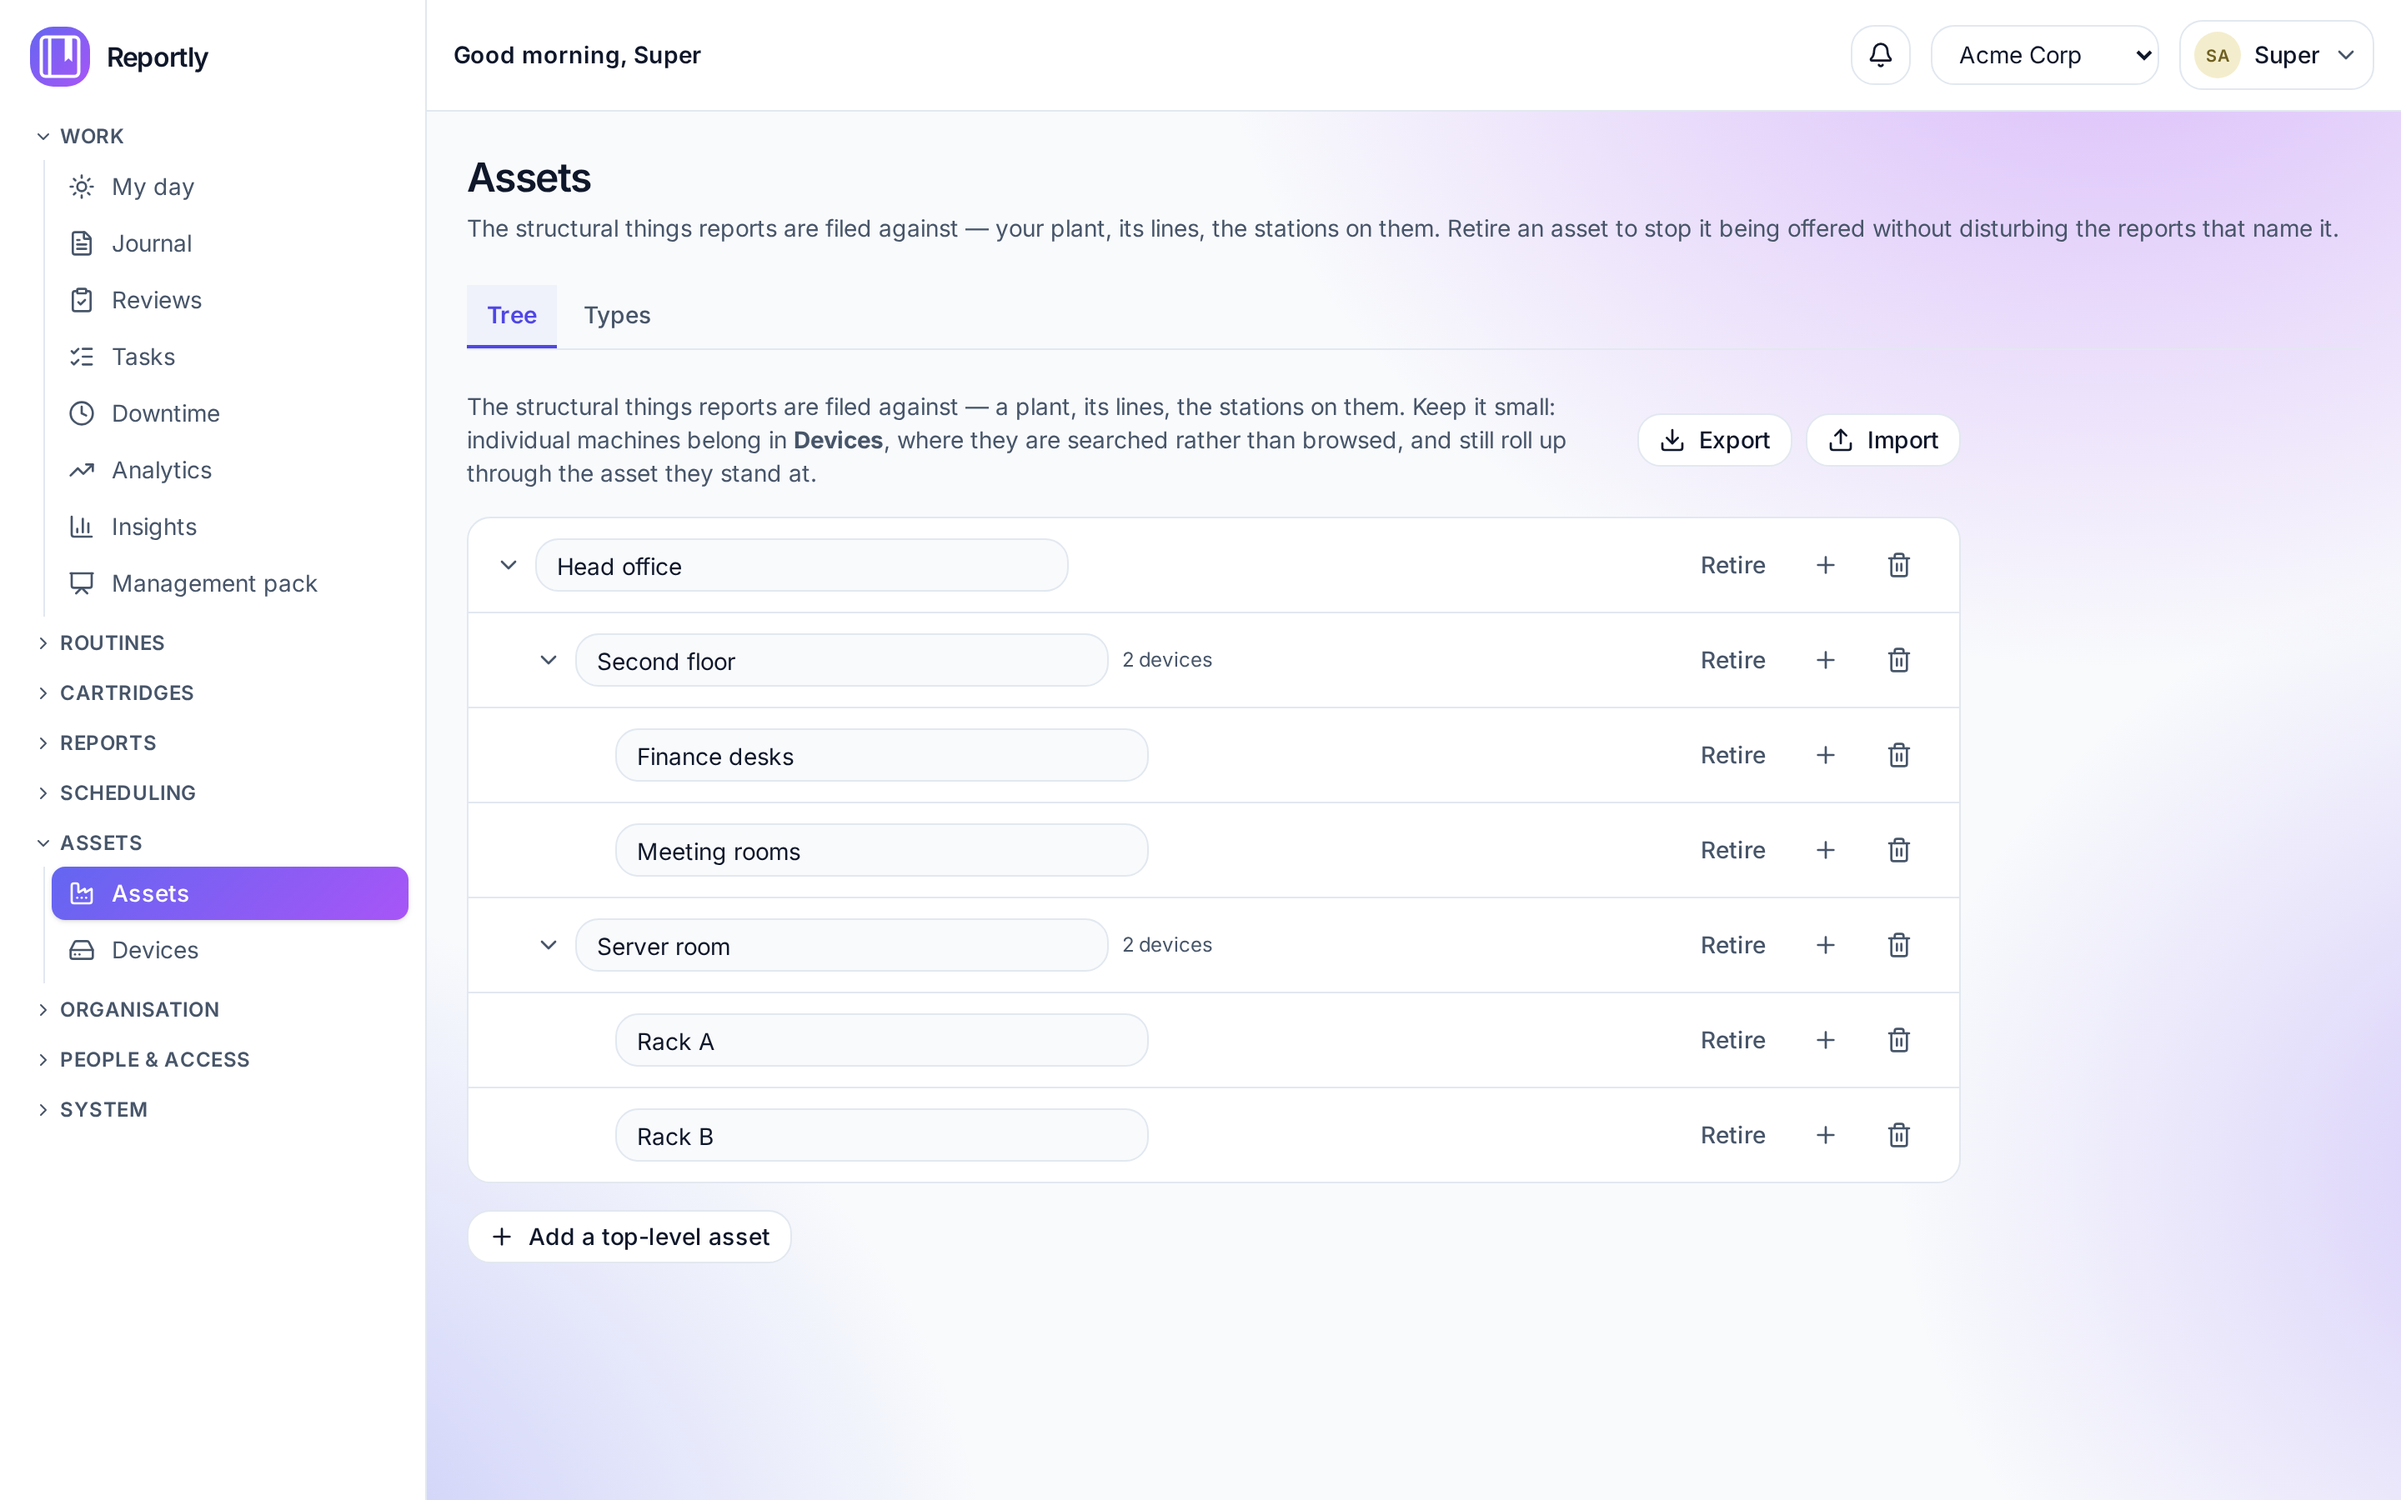
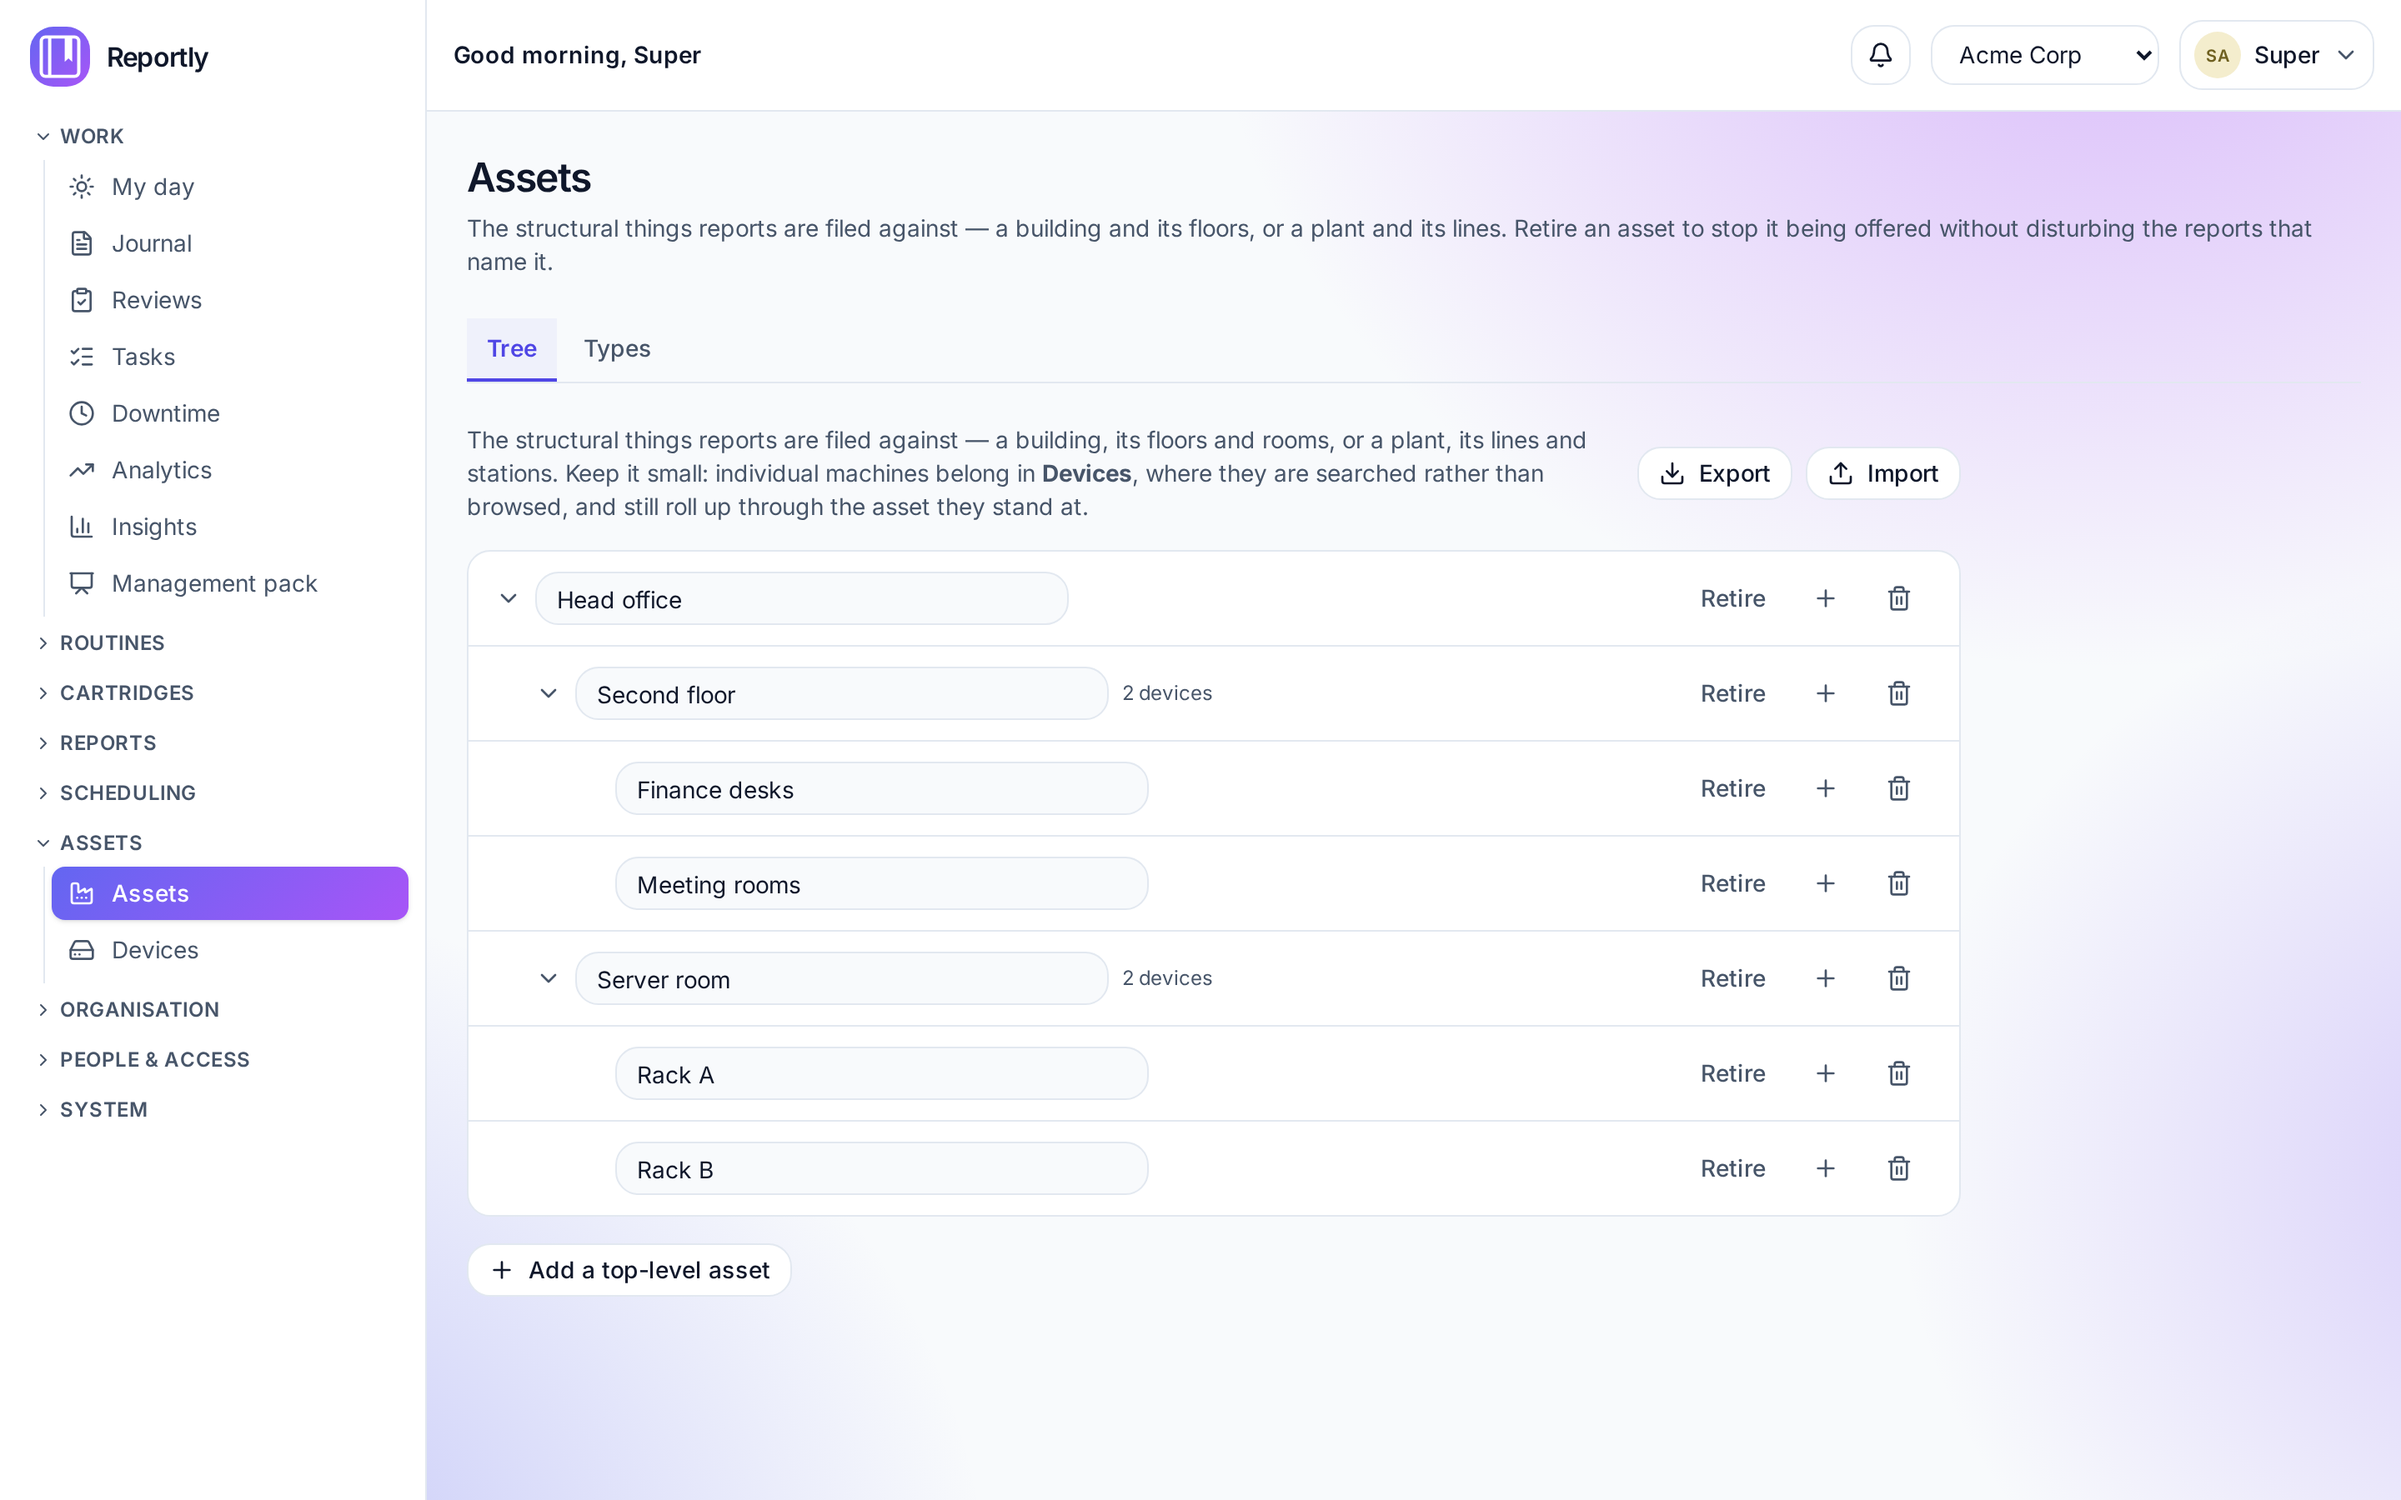
fix(web): stop the asset screens assuming a factory
The asset pages described "your plant, its lines, the stations on them" and
the cascading picker was labelled "Site or plant" — words an IT department
had to translate. The text now offers a building and its floors alongside a
plant and its lines, and the picker reads "Building or plant". The e2e spec
that selects by that label follows it, and the three affected screenshots
are regenerated.

diff --git a/apps/web/src/routes/assets/asset-tree-tab.tsx b/apps/web/src/routes/assets/asset-tree-tab.tsx
@@ -87,9 +87,10 @@ export function AssetTreeTab({ canManage }: { canManage: boolean }) {
     <div className="flex max-w-4xl flex-col gap-4">
       <div className="flex flex-wrap items-center justify-between gap-2">
         <p className="max-w-2xl text-sm text-muted-foreground">
-          The structural things reports are filed against — a plant, its lines, the stations on
-          them. Keep it small: individual machines belong in <strong>Devices</strong>, where they
-          are searched rather than browsed, and still roll up through the asset they stand at.
+          The structural things reports are filed against — a building, its floors and rooms, or a
+          plant, its lines and stations. Keep it small: individual machines belong in{" "}
+          <strong>Devices</strong>, where they are searched rather than browsed, and still roll up
+          through the asset they stand at.
         </p>
         <div className="flex shrink-0 items-center gap-2">
           <Button size="sm" variant="secondary" onClick={() => void exportAssets()}>
@@ -108,7 +109,7 @@ export function AssetTreeTab({ canManage }: { canManage: boolean }) {
       <Card className="divide-y divide-border">
         {tree.length === 0 ? (
           <p className="px-4 py-6 text-center text-sm text-muted-foreground">
-            Nothing here yet. Add your plant, then the lines under it.
+            Nothing here yet. Add a building or a plant, then what sits inside it.
           </p>
         ) : (
           tree.map((node) => (

diff --git a/e2e/tests/reporting.spec.ts b/e2e/tests/reporting.spec.ts
@@ -81,10 +81,10 @@ async function addAsset(page: Page, name: string): Promise<void> {
  *
  * It replaced a single combobox of every asset: you walk down — site, then line,
  * then station — and stop wherever you like, so there is no `option` to click by
- * name. The first level is "Site or plant"; "Use this"/"Add" commits the choice.
+ * name. The first level is "Building or plant"; "Use this"/"Add" commits the choice.
  */
 async function pickAsset(page: Page, name: string): Promise<void> {
-  await page.getByLabel("Site or plant").selectOption({ label: name });
+  await page.getByLabel("Building or plant").selectOption({ label: name });
   await page.getByRole("button", { name: /^(Add|Use this)$/ }).click();
   // The chip's own Remove button, not the name as text. `getByText(name)` also
   // matches the `<option>` still sitting in the picker, which Playwright reports

diff --git a/e2e/tests/helpers.ts b/e2e/tests/helpers.ts
@@ -335,7 +335,7 @@ export async function submitIssue(page: Page): Promise<void> {
   // "Choose one" placeholder — whatever this installation has called its plants.
   //
   // By its `name`, not its label. "Site" is ambiguous on this form — the scope picker
-  // below is "Site or plant" — and a required field's label carries a marker, so an
+  // below is "Building or plant" — and a required field's label carries a marker, so an
   // exact match on the word finds nothing either. The name is what the form posts
   // under and does not move.
   await page.locator('select[name="locationId"]').selectOption({ index: 1 });

diff --git a/apps/web/src/routes/assets/assets-page.tsx b/apps/web/src/routes/assets/assets-page.tsx
@@ -27,7 +27,7 @@ export function AssetsPage({ tab }: { tab: string }) {
     <>
       <PageHeader
         title="Assets"
-        description="The structural things reports are filed against — your plant, its lines, the stations on them. Retire an asset to stop it being offered without disturbing the reports that name it."
+        description="The structural things reports are filed against — a building and its floors, or a plant and its lines. Retire an asset to stop it being offered without disturbing the reports that name it."
       />
 
       <PageTabs

diff --git a/apps/web/src/routes/journal/scope-picker.tsx b/apps/web/src/routes/journal/scope-picker.tsx
@@ -165,8 +165,8 @@ export function ScopePicker({
         </p>
         {locationId && scopedAssets.length === 0 ? (
           <p className="text-xs text-muted-foreground">
-            No assets are placed at this site yet. Set their Site under Assets, or pick a line/plant
-            there — everything beneath it is covered.
+            No assets are placed at this site yet. Set their Site under Assets, or pick the building
+            or plant above them — everything beneath it is covered.
           </p>
         ) : (
           <AssetCascadePicker

diff --git a/apps/web/src/routes/reports/management-pack.tsx b/apps/web/src/routes/reports/management-pack.tsx
@@ -310,7 +310,7 @@ export function ManagementPackPage() {
     <div className="pack-page">
       <PageHeader
         title="Management pack"
-        description="A month of the plant in one page: the headline numbers against the month before, then the charts behind them. Print it, or export it as slides."
+        description="A month on one page: the headline numbers against the month before, then the charts behind them. Print it, or export it as slides."
         actions={
           data ? (
             <div className="no-print flex items-center gap-2">

diff --git a/apps/web/src/routes/reports/report-workspace.tsx b/apps/web/src/routes/reports/report-workspace.tsx
@@ -490,7 +490,7 @@ function ControlsPanel({
           label="Asset"
           hint={
             definition.source === "reliability" && definition.monthly
-              ? "The reliability trend is for one asset. Leave empty to use the first plant."
+              ? "The reliability trend is for one asset. Leave empty to use the first top-level asset."
               : "Reports on this asset and everything under it. Leave empty for the whole company."
           }
         >

diff --git a/apps/web/src/components/asset-cascade-picker.tsx b/apps/web/src/components/asset-cascade-picker.tsx
@@ -86,7 +86,7 @@ export function AssetCascadePicker({
           // legible.
           <label key={depth} className="flex w-full flex-col gap-1 text-xs sm:w-64">
             <span className="text-muted-foreground">
-              {depth === 0 ? "Site or plant" : `Inside ${nameOf(active, row.parentId)}`}
+              {depth === 0 ? "Building or plant" : `Inside ${nameOf(active, row.parentId)}`}
             </span>
             <Select
               value={row.chosen}

diff --git a/apps/web/src/routes/analytics/analytics-page.tsx b/apps/web/src/routes/analytics/analytics-page.tsx
@@ -142,7 +142,7 @@ export function AnalyticsPage() {
         <EmptyState
           icon={Factory}
           title="No assets yet"
-          description="Reliability is measured against the asset tree. Add a line or a plant to get started."
+          description="Reliability is measured against the asset tree. Add a building or a plant to get started."
         />
       ) : null}
 

diff --git a/CHANGELOG.md b/CHANGELOG.md
@@ -8,6 +8,13 @@ follow [Semantic Versioning](https://semver.org/spec/v2.0.0.html).
 
 ### Changed
 
+- **The asset screens no longer assume a factory.** They spoke of "your plant, its
+  lines, the stations on them", and the asset picker was labelled _Site or plant_ —
+  wording an IT department filing against a server room had to translate. The text
+  now names a building and its floors alongside a plant and its lines, and the picker
+  reads _Building or plant_. The demo seed is an IT department to match: laptops,
+  printers and Wi-Fi rather than conveyors and coolant pumps.
+
 - **Work is a timeline, not a text box.** Each piece of work is its own item with the
   person who did it and the hours it took, oldest first. The previous attempt appended
   into the entry's single work field: there was nowhere to put a _when_, a second log
